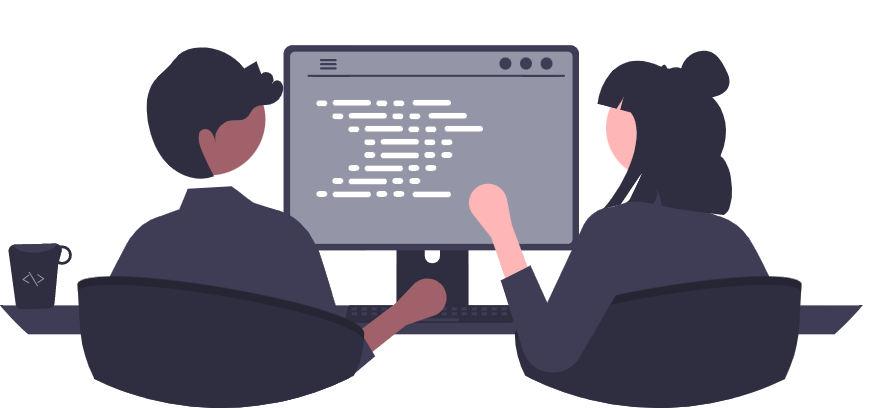
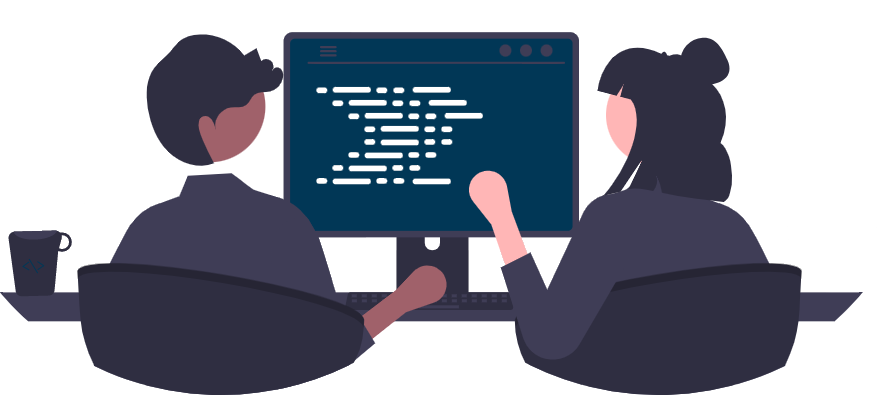
hero illustration color change

diff --git a/src/styles/scss/containers/about/_about.scss b/src/styles/scss/containers/about/_about.scss
@@ -39,13 +39,13 @@
         content: "";
         position: absolute;
         top: 0;
-        bottom: 20%;
+        bottom: 28%;
         right: 25px;
         left: 0;
         margin: auto;
         width: 25%;
-        height: 35%;
-        background-color: rgb(2, 15, 87);
+        height: 38%;
+        background-color: #ddd;
         z-index: -1;
       }
       img {

diff --git a/src/styles/css/main.css b/src/styles/css/main.css
@@ -336,13 +336,13 @@ img {
   content: "";
   position: absolute;
   top: 0;
-  bottom: 20%;
+  bottom: 28%;
   right: 25px;
   left: 0;
   margin: auto;
   width: 25%;
-  height: 35%;
-  background-color: #020f57;
+  height: 38%;
+  background-color: #ddd;
   z-index: -1;
 }
 
